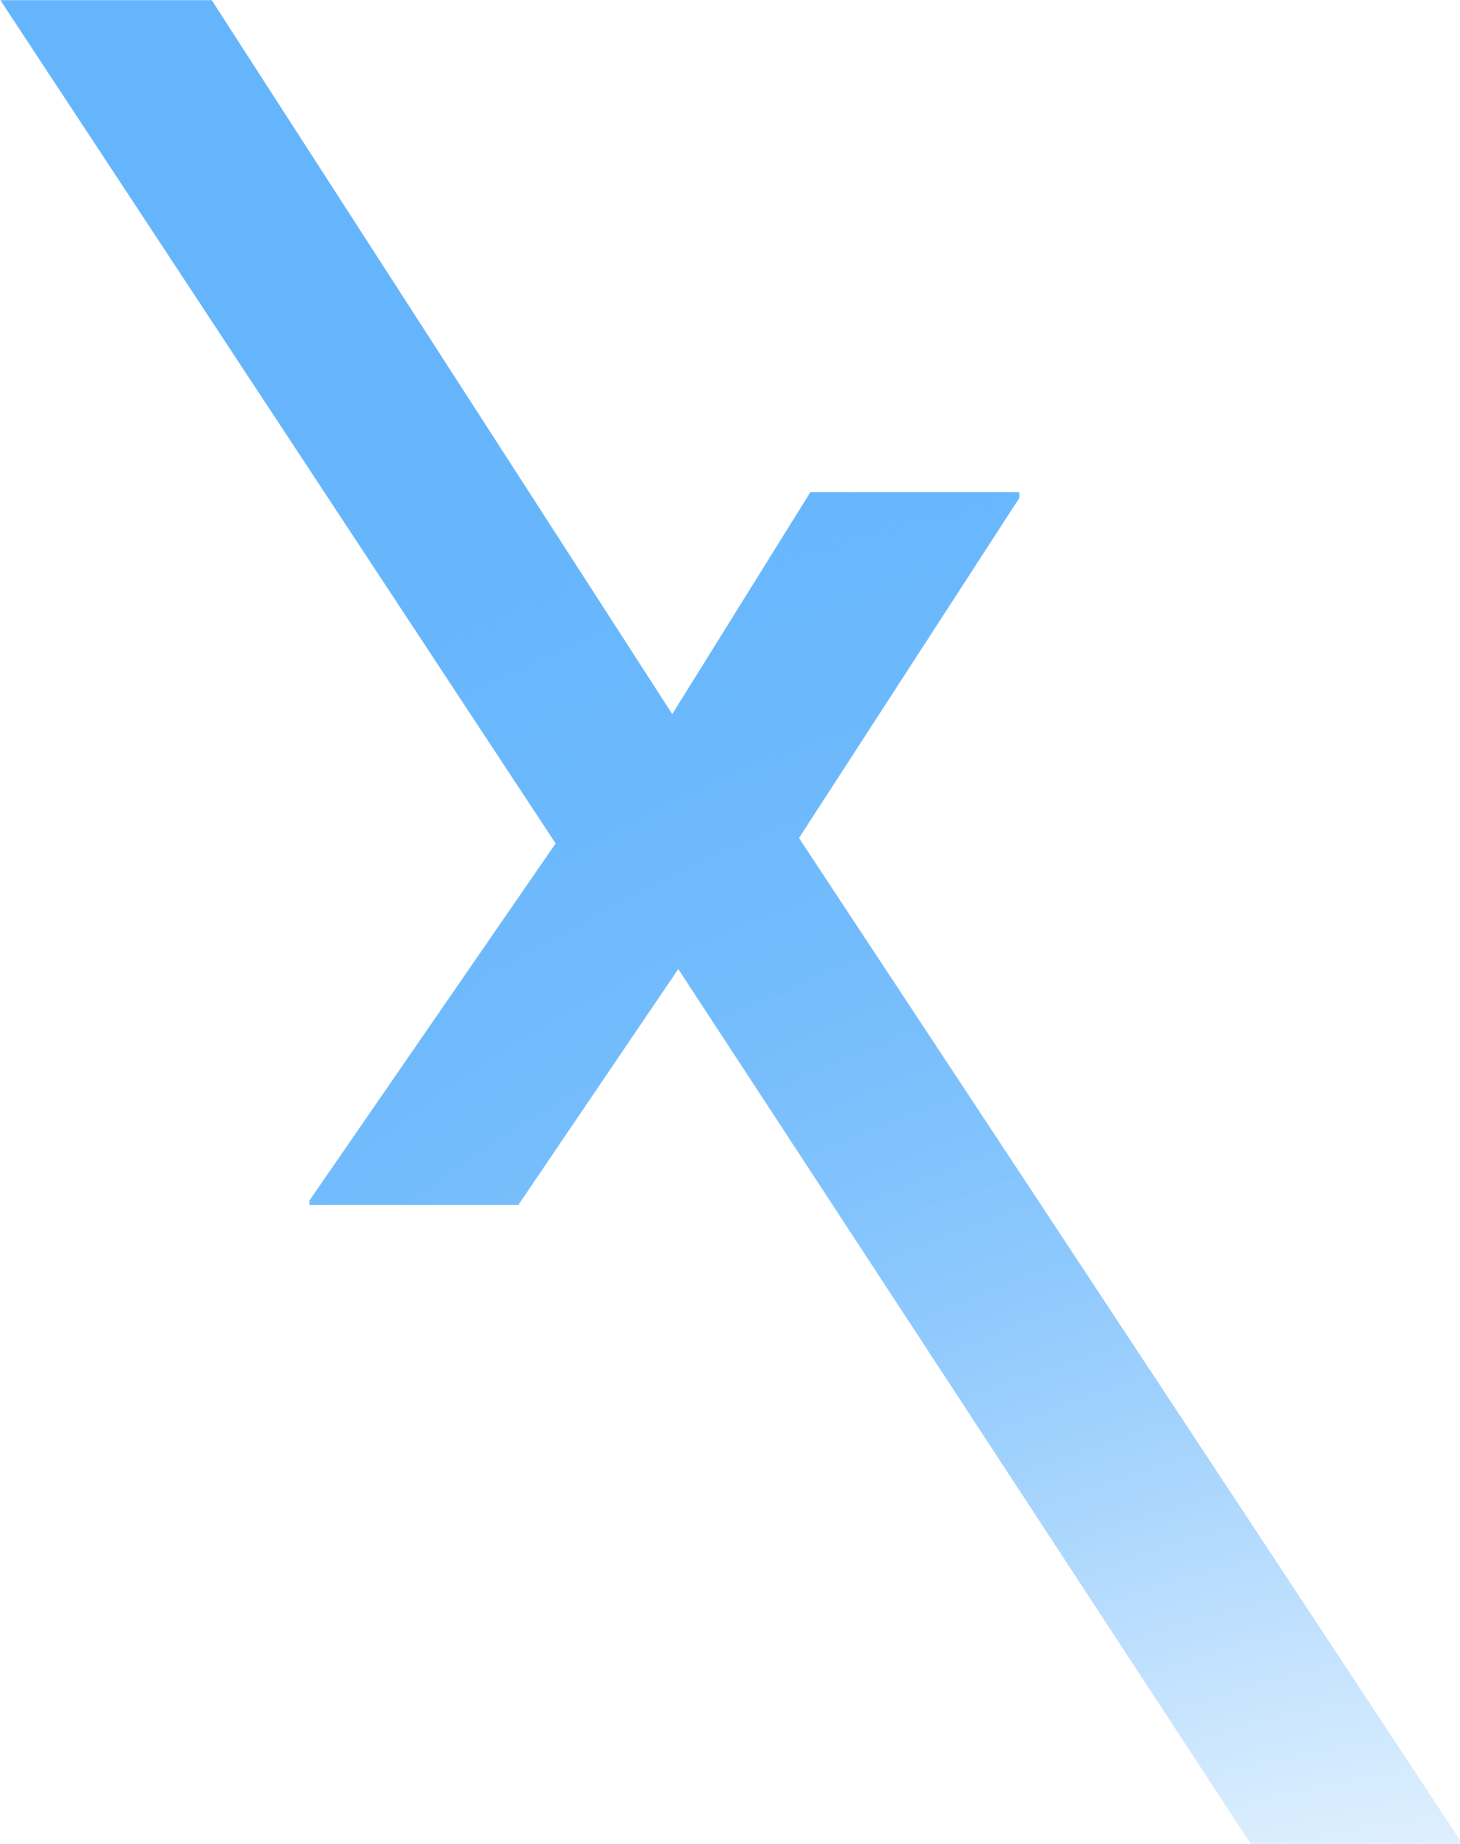
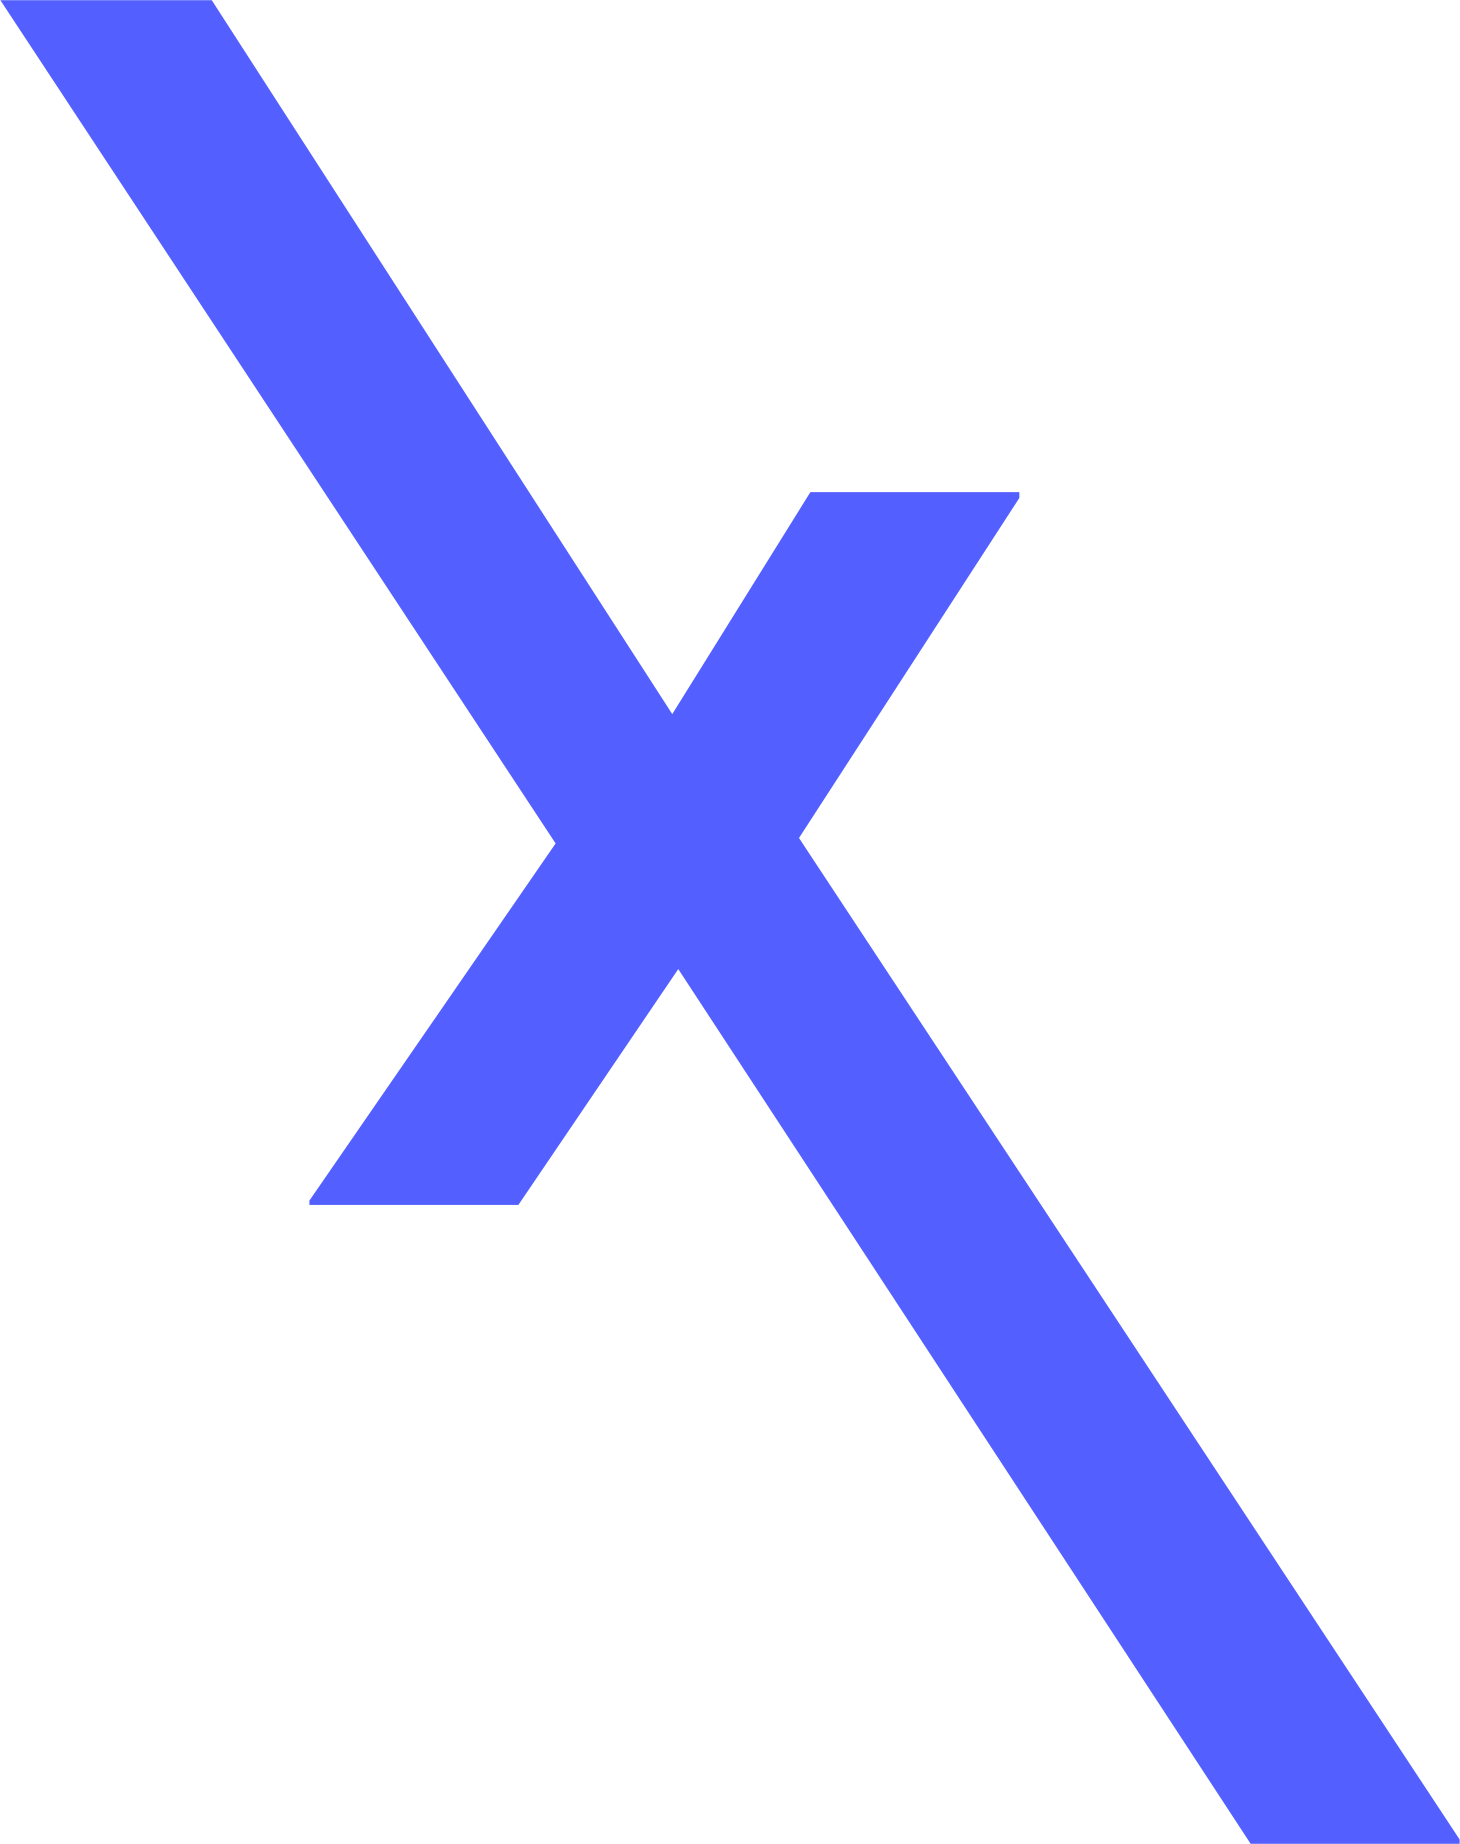
icon2

Changed region(s): [[0.0, 0.0, 1.0, 1.0]]

diff --git a/src/app/home/home.component.css b/src/app/home/home.component.css
@@ -45,7 +45,7 @@ body {
 
 .navbar .logo {
     font-size: 33px;
-    color: #65b5fc;
+    color: #5360ff;
     font-weight: 600;
     transition: transform 0.3s ease;
 }
@@ -74,7 +74,7 @@ body {
 }
 
 .navbar .links .nav-link:hover {
-    color: #65b5fc;
+    color: #5360ff;
     transform: translateY(-2px);
 }
 
@@ -85,7 +85,7 @@ body {
     height: 2px;
     bottom: -5px;
     left: 0;
-    background-color: #65b5fc;
+    background-color: #5360ff;
     transition: width 0.3s ease;
 }
 
@@ -103,7 +103,7 @@ body {
 }
 
 .navbar .login button:hover {
-    color: #65b5fc;
+    color: #5360ff;
     transform: scale(1.1);
 }
 
@@ -116,7 +116,7 @@ body {
 }
 
 .navbar .login button.signup:hover {
-    background-color: #65b5fc;
+    background-color: #5360ff;
     transform: scale(1.1);
 }
 
@@ -140,7 +140,7 @@ header.section .left h1 {
 }
 
 header.section .left h1 span {
-    color: #65b5fc;
+    color: #5360ff;
 }
 
 header.section .left p {
@@ -160,7 +160,7 @@ header.section .left a {
 }
 
 header.section .left a:hover {
-    background-color: #65b5fc;
+    background-color: #5360ff;
     transform: scale(1.1);
 }
 
@@ -217,7 +217,7 @@ h2.separator {
 
 .sell-nft.section .item .header i {
     font-size: 40px;
-    color: #65b5fc;
+    color: #5360ff;
 }
 
 .sell-nft.section .item .header h5 {
@@ -252,7 +252,7 @@ h2.separator {
 
 .nft-shop.section .category a:hover {
     color: #fff;
-    background-color: #65b5fc;
+    background-color: #5360ff;
     transform: scale(1.05);
 }
 
@@ -301,12 +301,12 @@ h2.separator {
 
 .nft-shop.section .nft-list .item .exp i {
     font-size: 22px;
-    color: #65b5fc;
+    color: #5360ff;
 }
 
 .nft-shop.section .nft-list .item .exp p {
     font-size: 12px;
-    color: #65b5fc;
+    color: #5360ff;
 }
 
 .nft-shop.section .nft-list .item .info > p {
@@ -331,7 +331,7 @@ h2.separator {
 }
 
 .nft-shop.section .nft-list .item .bid a {
-    color: #65b5fc;
+    color: #5360ff;
     background: transparent;
     transition: all 0.3s ease;
 }
@@ -360,7 +360,7 @@ h2.separator {
 
 .view-more.section button:hover {
     color: #fff;
-    background: #65b5fc;
+    background: #5360ff;
     transform: scale(1.05);
 }
 
@@ -453,7 +453,7 @@ footer.section .right .social a i {
 }
 
 footer.section .right .social a i:hover {
-    color: #65b5fc;
+    color: #5360ff;
     transform: scale(1.1);
 }
 
@@ -490,7 +490,7 @@ footer.section .right p {
 
 .modal-content h3 {
     font-size: 20px;
-    color: #65b5fc;
+    color: #5360ff;
     margin-bottom: 10px;
 }
 
@@ -504,7 +504,7 @@ footer.section .right p {
     padding: 8px 14px;
     border: none;
     cursor: pointer;
-    background-color: #65b5fc;
+    background-color: #5360ff;
     color: #fff;
     border-radius: 4px;
     margin: 0 5px;
@@ -527,7 +527,7 @@ footer.section .right p {
 }
 
 .close:hover {
-    color: #65b5fc;
+    color: #5360ff;
     transform: scale(1.2);
 }
 

diff --git a/src/app/signup/signup.component.css b/src/app/signup/signup.component.css
@@ -118,7 +118,7 @@
 }
 
 .remove-btn:hover {
-    background-color: #65b5fc;
+    background-color: #5360ff;
 }
 
 .add-btn:hover {
